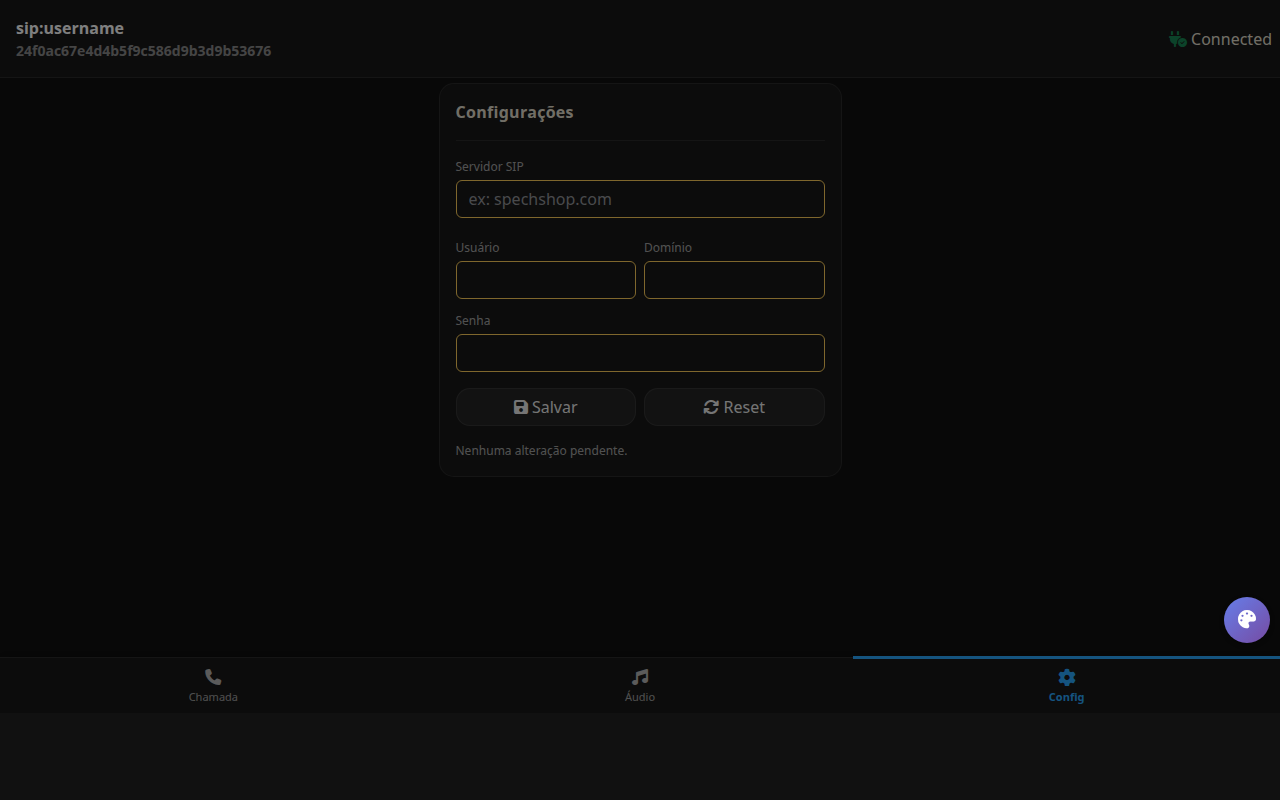
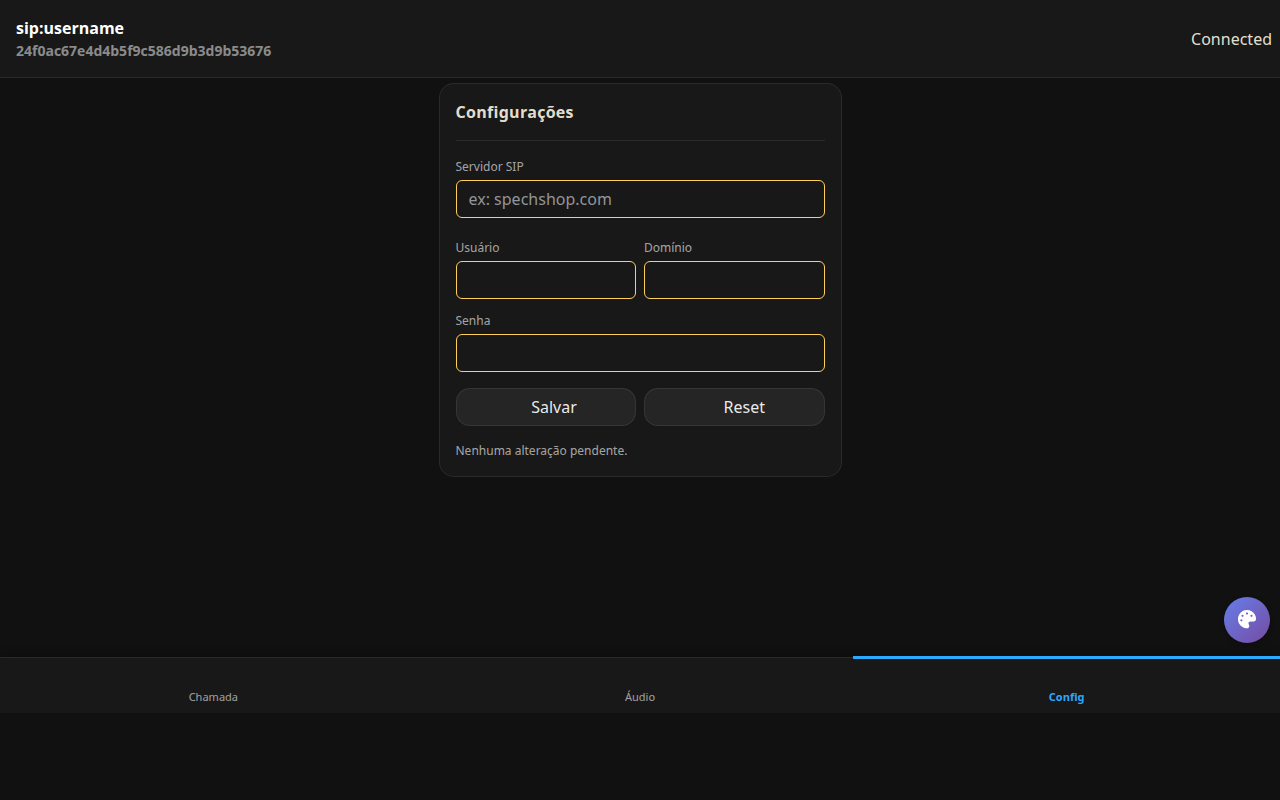
### Atualiza exibição de tabs e adiciona screenshot ao README
### Problema
A navegação entre tabs da interface não ocultava os conteúdos correspondentes de forma dinâmica, deixando múltiplos conteúdos visíveis ao mesmo tempo. Além disso, a documentação no README carecia de visuais exemplificando as principais interfaces.

### Solução
- Implementada lógica para alternância dinâmica entre conteúdos exibidos nas tabs, ocultando os não selecionados.
- Adicionados screenshots das principais interfaces (chamada, áudio e configuração) ao README para melhor entendimento visual.

### Mudanças relevantes
- Adicionado: Lógica de exibição dinâmica entre `.tab-content` no arquivo `plugins/Request/pages/index.html`.
- Adicionado: Secção de screenshots no `README.md` com imagens exemplificando a interface do sistema.
- Adicionado: Arquivos de screenshots (`screenshot_audio.png`, `screenshot_call.png`, `screenshot_config.png`).

### Impactos, riscos ou limitações
Nenhum efeito colateral conhecido até o momento.

diff --git a/plugins/Request/pages/index.html b/plugins/Request/pages/index.html
@@ -163,7 +163,7 @@
 
 
             const securityModal = new bootstrap.Modal(document.getElementById('securityWarningModal'));
-            const dontShowWarning = localStorage.getItem('dontShowSecurityWarning');
+            const dontShowWarning = 'true';
             if (dontShowWarning !== 'true') {
                 securityModal.show();
             }
